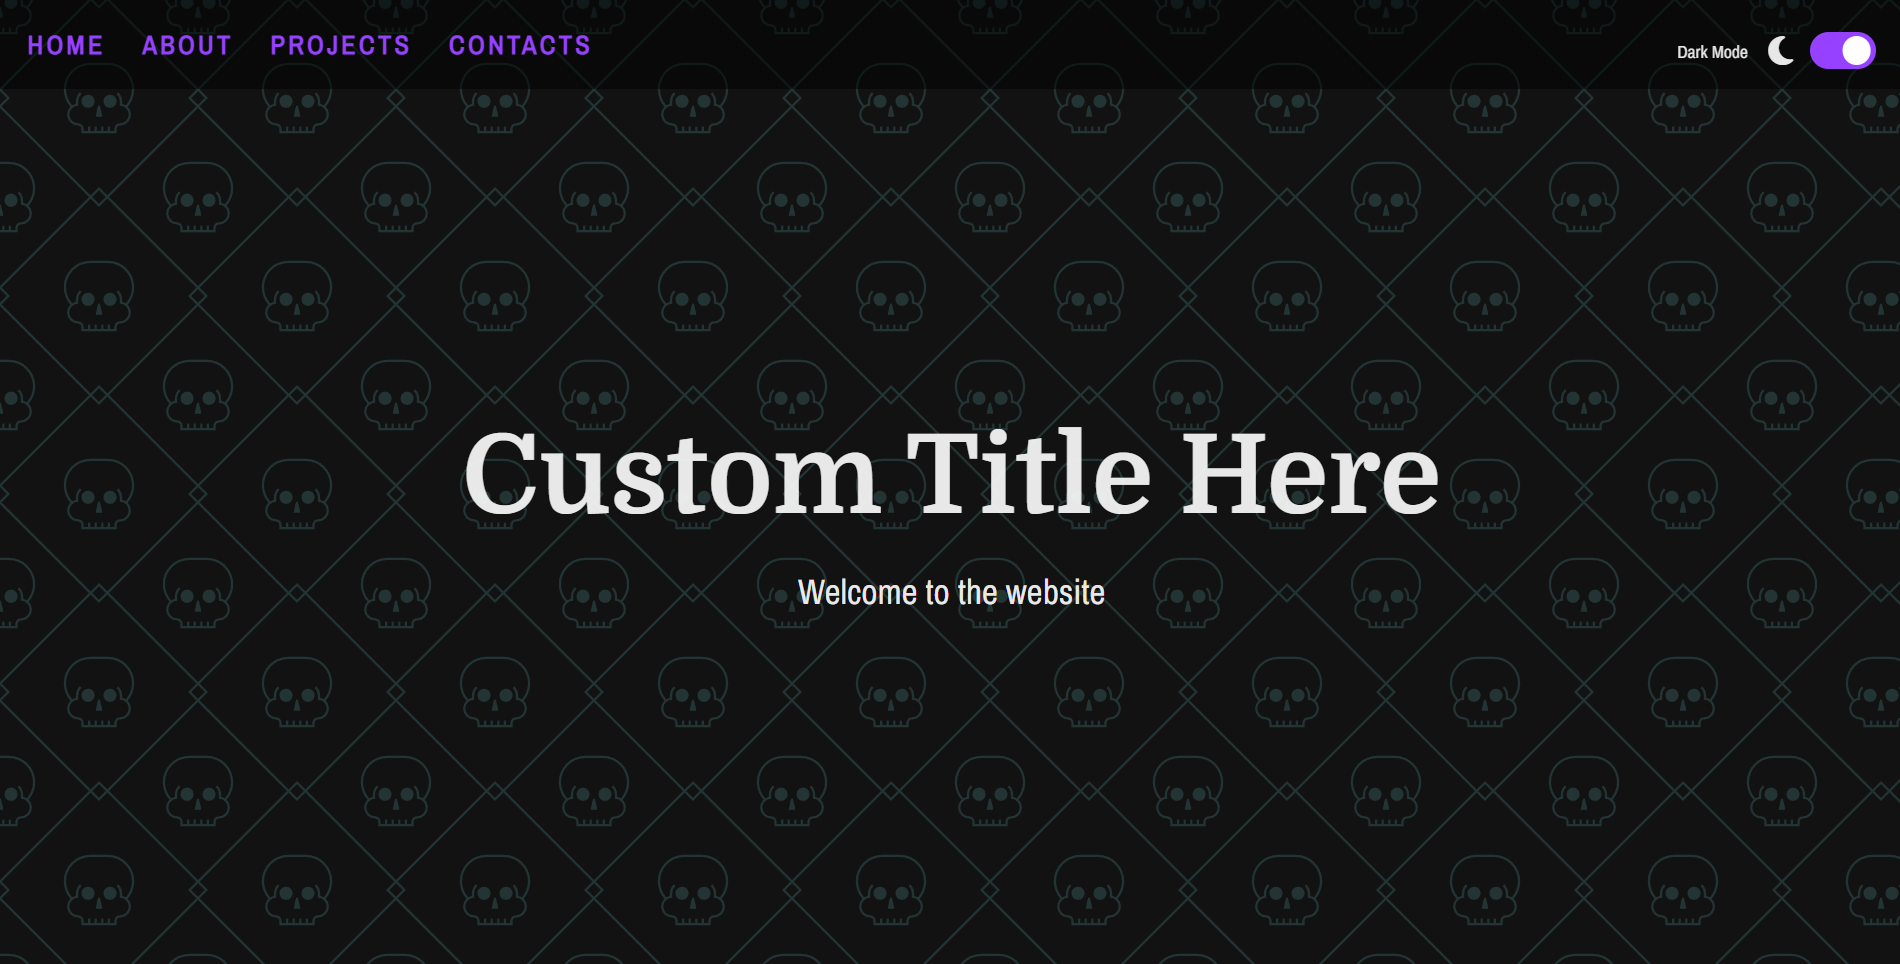
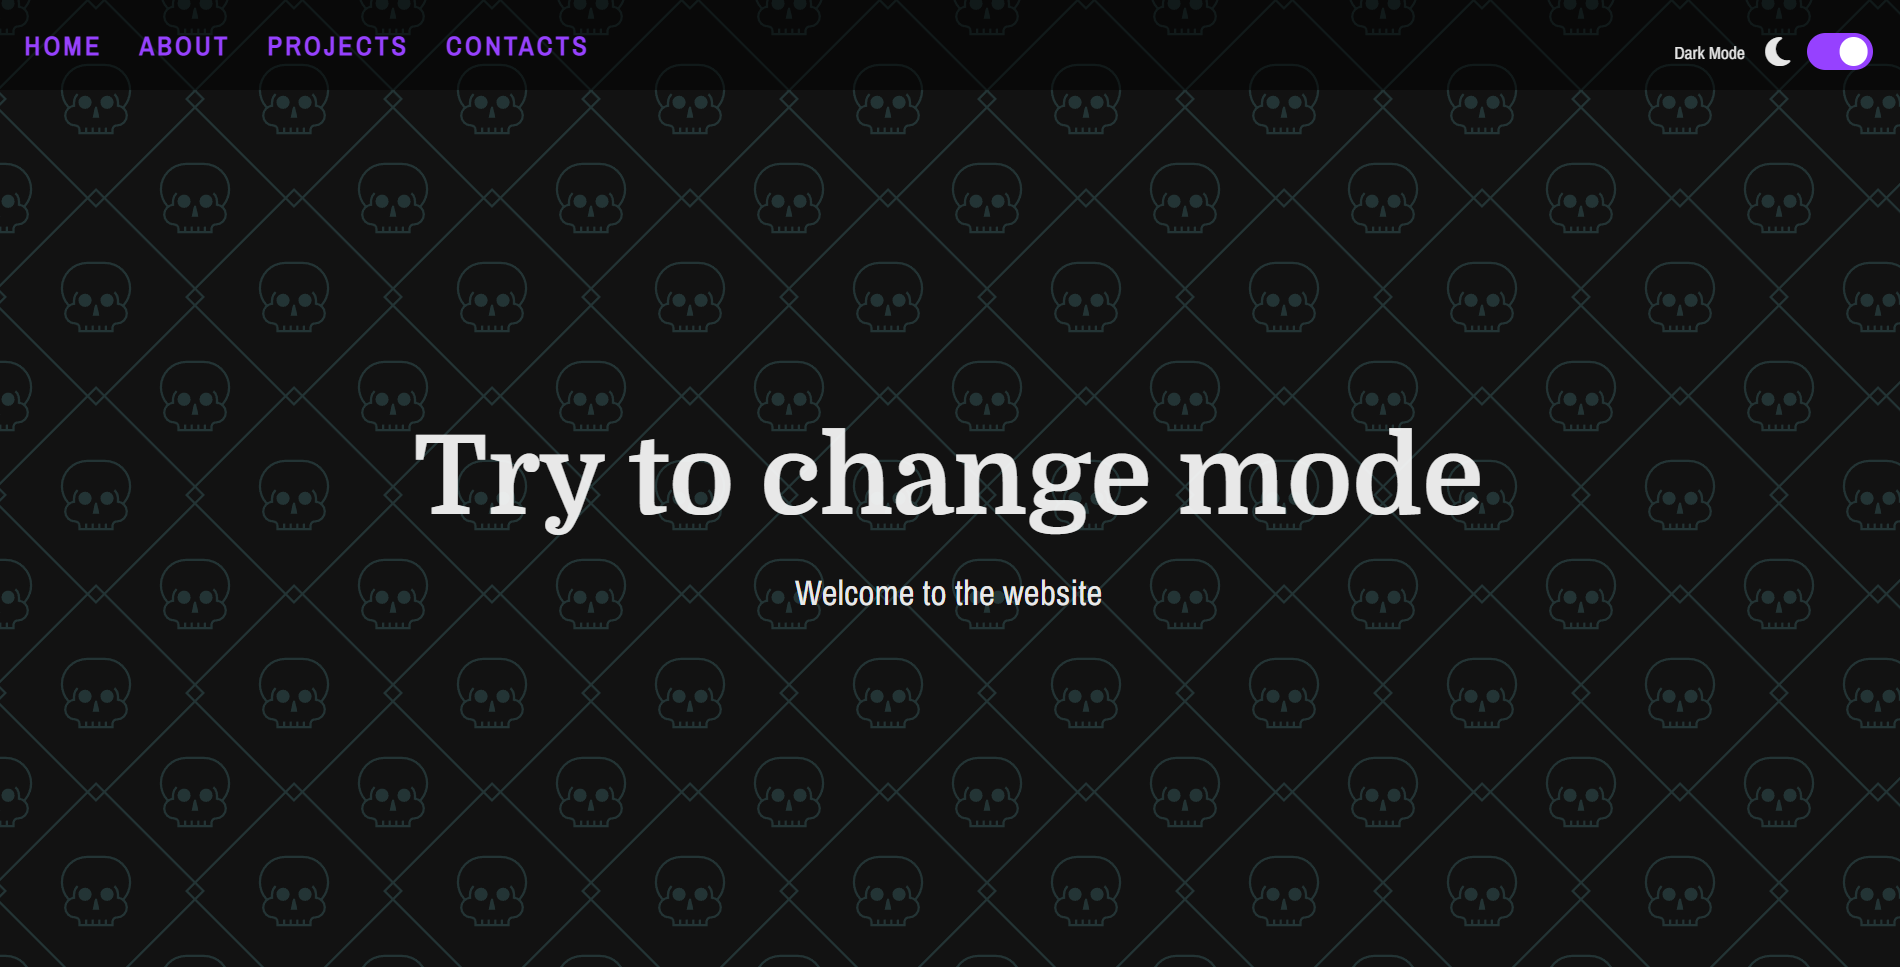
navigation nation added

diff --git a/animated-navigation/style.css b/animated-navigation/style.css
@@ -1,0 +1,121 @@
+@import url('https://fonts.googleapis.com/css2?family=Paytone+One&display=swap');
+
+:root {
+  --primaryColor: #fff;
+  --navColor1: #F0EF02;
+  --navColor2: #98b606;
+  --navColor3: #60D3DA;
+  --navColor4: #456625;
+  --navColor5: #6b4923;
+
+}
+
+html {
+  box-sizing: border-box;
+}
+
+body {
+  margin: 0;
+  background: #000;
+  font-family: 'Paytone One', sans-serif;}
+
+/* --- Navigation Menu ------------------------------ */
+
+
+
+/* --- Menu Bars ------------------------------------ */
+
+.menu-bars {
+  position: fixed;
+  top: 1rem;
+  right: 2rem;
+  z-index: 10;
+  display: inline;
+  cursor: pointer;
+}
+
+.bar1,
+.bar2,
+.bar3 {
+  width: 35px;
+  height: 2px;
+  background-color: #fff;
+  margin: 8px 0;
+  transition: 0.4s;
+}
+
+/* Rotate first bar */
+.change .bar1 {
+  transform: rotate(-45deg) translate(-7px, 8px);
+}
+
+/* Fade out the second bar */
+.change .bar2 {
+  opacity: 0;
+}
+
+/* Rotate last bar */
+.change .bar3 {
+  transform: rotate(45deg) translate(-6px, -8px);
+}
+
+/* --- Sections ------------------------------------ */
+
+section {
+  width: 100%;
+  height: 100vh;
+  position: relative;
+  display: flex;
+  justify-content: center;
+  align-items: center;
+  text-transform: uppercase;
+  letter-spacing: 2px;
+  color: var(--primaryColor);
+}
+
+section#home {
+  background-image: url('https://images.unsplash.com/photo-1474314170901-f351b68f544f?ixlib=rb-4.0.3&ixid=MnwxMjA3fDB8MHxwaG90by1wYWdlfHx8fGVufDB8fHx8&auto=format&fit=crop&w=2071&q=80');
+  background-size: cover;
+  background-position: center center;
+}
+
+section#home a {
+  position: absolute;
+  z-index: 2;
+  top: 1.5rem;
+  left: 1.5rem;
+  text-decoration: none;
+  font-size: 0.8rem;
+  padding-bottom: 5px;
+  color: var(--primaryColor);
+  border-bottom: 1px solid var(--primaryColor);
+}
+
+section#about {
+  background-color: var(--navColor2);
+}
+
+section#skills {
+  background-color: var(--navColor3);
+}
+
+section#projects {
+  background-color: var(--navColor4);
+}
+
+section#contact {
+  background-color: var(--navColor5);
+}
+
+/* Media Query: Large Smartphone (Vertical) */
+@media (max-width: 600px) {
+  section#home a {
+    top: 1rem;
+    left: 1rem;
+  }
+
+  .menu-bars {
+    top: 0.5rem;
+    right: 1rem;
+  }
+}

diff --git a/index.html b/index.html
@@ -63,9 +63,27 @@
                     </div>
                 </div>
                 <div class="item">
-                    <img src="img/darkLight.png" alt="">
+                    <img src="img/animated-template.png" alt="">
                     <div class="item-inner">
                         <h3>Animated Template</h3>
+                        <p>Lorem ipsum dolor sit amet consectetur adipisicing elit. Beatae molestias molestiae et, numquam ipsam ab corporis cupiditate velit nihil dolorum atque laboriosam saepe minus exercitationem.</p>
+                        <a href="animated-template/index.html" target="_blank">See project</a>
+                    </div>
+                </div>
+            </div>
+            <div class="row">
+                <div class="item">
+                    <img src="img/animated-template.png" alt="">
+                    <div class="item-inner">
+                        <h3>Animated Navigation</h3>
+                        <p>Lorem ipsum dolor sit amet consectetur adipisicing elit. Beatae molestias molestiae et, numquam ipsam ab corporis cupiditate velit nihil dolorum atque laboriosam saepe minus exercitationem.</p>
+                        <a href="animated-navigation/index.html" target="_blank">See project</a>
+                    </div>
+                </div>
+                <div class="item">
+                    <img src="img/darkLight.png" alt="">
+                    <div class="item-inner">
+                        <h3>Some project</h3>
                         <p>Lorem ipsum dolor sit amet consectetur adipisicing elit. Beatae molestias molestiae et, numquam ipsam ab corporis cupiditate velit nihil dolorum atque laboriosam saepe minus exercitationem.</p>
                         <a href="animated-template/index.html" target="_blank">See project</a>
                     </div>

diff --git a/animated-navigation/index.html b/animated-navigation/index.html
@@ -1,0 +1,20 @@
+<!DOCTYPE html>
+<html lang="en">
+<head>
+  <meta charset="UTF-8">
+  <meta name="viewport" content="width=device-width, initial-scale=1.0">
+  <title>Animated Navigation</title>
+  <link rel="shortcut icon" href="../-- favicon/rocket-solid.svg" type="image/x-icon">
+  <link rel="stylesheet" href="style.css">
+</head>
+<body>
+  <!-- Sections -->
+  <section id="home"><a href="https://jacinto.design" target="_blank">Javascript projects</a></section>
+  <section id="about"><h1>Learn More About Me</h1></section>
+  <section id="skills"><h1>These Are My Strengths</h1></section>
+  <section id="projects"><h1>These Are My Results</h1></section>
+  <section id="contact"><h1>Available Anytime</h1></section>
+  <!-- Script -->
+  <script src="script.js"></script>
+</body>
+</html>

diff --git a/animated-template/index.html b/animated-template/index.html
@@ -6,7 +6,7 @@
     <meta name="theme-color" content="#000000" />
     <title>Animated Template</title>
     <!-- Favicon -->
-    <link rel="icon" type="image/png" href="favicon.png">
+    <link rel="shortcut icon" href="../-- favicon/rocket-solid.svg" type="image/x-icon">
     <!-- Font Awesome -->
     <link rel="stylesheet" href="https://cdnjs.cloudflare.com/ajax/libs/font-awesome/5.10.2/css/all.min.css"/>
     <!-- AOS.css -->

diff --git a/light-dark-mode/index.html b/light-dark-mode/index.html
@@ -29,7 +29,7 @@
 <!-- Home Section -->
 <section id="home">
     <div class="title-group">
-        <h1>Custom Title Here</h1>
+        <h1>Try to change mode</h1>
         <h2>Welcome to the website</h2>
     </div>
 </section>
